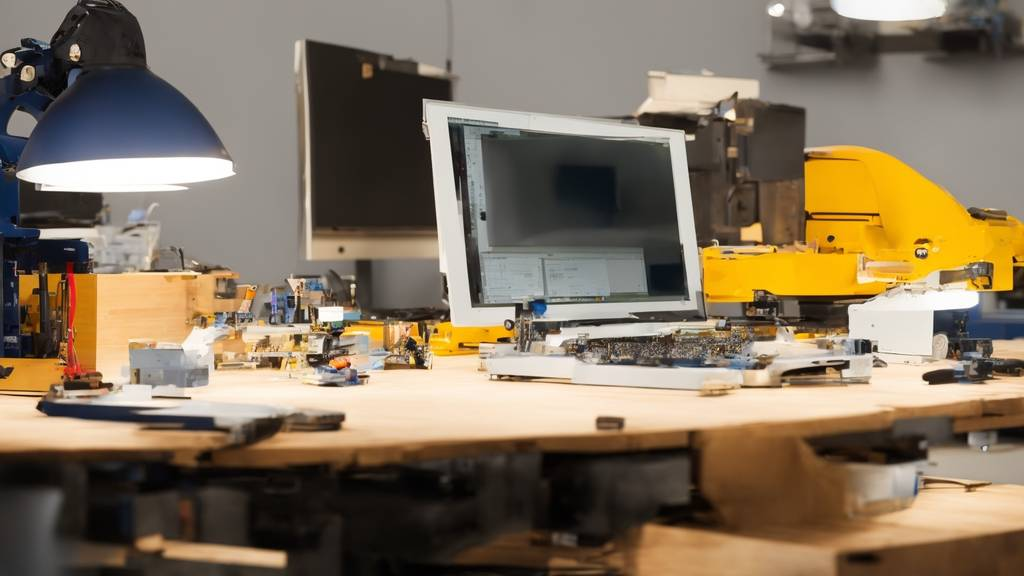
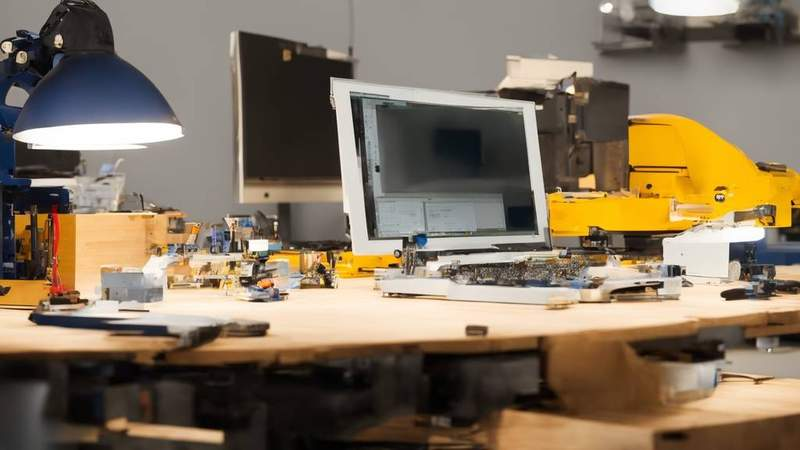
Split hero layout, optimize load time across all pages
Hero: Split into text-left + video-right grid instead of full-bleed
video background. Video plays once and holds. Stacks on mobile.

Performance:
- Logo: resized from 663x252 to 200x76 (90KB -> 22KB)
- Poster: recompressed (57KB -> 37KB)
- Dropped Inter 800 weight (only using 400/500/600/700)
- Added preconnect to fonts.gstatic.com across all pages
- Deferred chatbot.js and reviews.js loading
- Added lazy loading to all below-fold icon images
- Responsive breakpoints updated for split hero

diff --git a/index.html b/index.html
@@ -5,8 +5,9 @@
   <meta name="viewport" content="width=device-width, initial-scale=1.0">
   <meta name="description" content="Computer Solutions - Professional computer repair, IT support, and technology services. Fast, reliable, and affordable.">
   <title>Computer Solutions | Professional Computer Repair & IT Services</title>
-  <link rel="preconnect" href="https://fonts.googleapis.com">
-  <link href="https://fonts.googleapis.com/css2?family=Inter:wght@400;500;600;700;800&family=Poppins:wght@700&display=swap" rel="stylesheet">
+  <link rel="preconnect" href="https://fonts.googleapis.com" crossorigin>
+  <link rel="preconnect" href="https://fonts.gstatic.com" crossorigin>
+  <link href="https://fonts.googleapis.com/css2?family=Inter:wght@400;500;600;700&family=Poppins:wght@700&display=swap" rel="stylesheet">
   <link rel="stylesheet" href="css/styles.css">
 </head>
 <body>
@@ -35,21 +36,15 @@
   </header>
 
   <!-- Hero Section -->
-  <section class="hero">
-    <div class="hero-bg">
-      <video id="heroVideo" autoplay muted playsinline poster="images/hero-workbench.jpg">
-        <source src="images/hero-video.mp4" type="video/mp4">
-        <img src="images/hero-workbench.jpg" alt="Computer Solutions repair workshop">
-      </video>
-    </div>
+  <section class="hero hero-split">
     <div class="container">
-      <div class="hero-content">
+      <div class="hero-split-grid">
         <div class="hero-text">
           <h1>Expert Computer & <span>TV Repair</span> in Keystone Heights</h1>
           <p>Your complete source for PC, laptop, and LED/LCD/DLP television repair. We also sell new and refurbished computers. Reliable service with a personal touch.</p>
           <div class="hero-buttons">
             <a href="booking.html" class="btn btn-accent btn-lg">Book a Repair</a>
-            <a href="services.html" class="btn btn-outline btn-lg">Our Services</a>
+            <a href="services.html" class="btn btn-outline-dark btn-lg">Our Services</a>
           </div>
           <div class="hero-stats">
             <div class="hero-stat">
@@ -66,6 +61,11 @@
             </div>
           </div>
         </div>
+        <div class="hero-video-wrap">
+          <video id="heroVideo" autoplay muted playsinline poster="images/hero-workbench.jpg" preload="auto">
+            <source src="images/hero-video.mp4" type="video/mp4">
+          </video>
+        </div>
       </div>
     </div>
   </section>
@@ -80,32 +80,32 @@
       </div>
       <div class="features-grid">
         <div class="feature-card fade-in">
-          <div class="feature-icon"><img src="images/icons/pc-repair.jpg" alt="PC Repair"></div>
+          <div class="feature-icon"><img loading="lazy" src="images/icons/pc-repair.jpg" alt="PC Repair"></div>
           <h3>PC & Laptop Repair</h3>
           <p>Complete hardware and software repair for desktops and laptops. All major brands and models serviced.</p>
         </div>
         <div class="feature-card fade-in">
-          <div class="feature-icon"><img src="images/icons/tv-repair.jpg" alt="TV Repair"></div>
+          <div class="feature-icon"><img loading="lazy" src="images/icons/tv-repair.jpg" alt="TV Repair"></div>
           <h3>TV Repair</h3>
           <p>LED, LCD, and DLP television repair. We diagnose and fix display issues, power problems, and more.</p>
         </div>
         <div class="feature-card fade-in">
-          <div class="feature-icon"><img src="images/icons/virus.jpg" alt="Virus Removal"></div>
+          <div class="feature-icon"><img loading="lazy" src="images/icons/virus.jpg" alt="Virus Removal"></div>
           <h3>Virus & Malware Removal</h3>
           <p>Thorough virus and malware removal with a 90-day warranty. Get your system clean and protected.</p>
         </div>
         <div class="feature-card fade-in">
-          <div class="feature-icon"><img src="images/icons/data-recovery.jpg" alt="Data Recovery"></div>
+          <div class="feature-icon"><img loading="lazy" src="images/icons/data-recovery.jpg" alt="Data Recovery"></div>
           <h3>Data Recovery</h3>
           <p>Lost important files? We recover data from damaged, corrupted, or failing hard drives and SSDs.</p>
         </div>
         <div class="feature-card fade-in">
-          <div class="feature-icon"><img src="images/icons/sales.jpg" alt="Computer Sales"></div>
+          <div class="feature-icon"><img loading="lazy" src="images/icons/sales.jpg" alt="Computer Sales"></div>
           <h3>Computer Sales</h3>
           <p>New and refurbished laptops and desktops at competitive prices. Find the right computer for your needs.</p>
         </div>
         <div class="feature-card fade-in">
-          <div class="feature-icon"><img src="images/icons/business-it.jpg" alt="Business IT"></div>
+          <div class="feature-icon"><img loading="lazy" src="images/icons/business-it.jpg" alt="Business IT"></div>
           <h3>Business IT Support</h3>
           <p>Full software and hardware support for business computers. Consulting, setup, and ongoing maintenance.</p>
         </div>
@@ -123,28 +123,28 @@
       </div>
       <div class="why-grid">
         <div class="why-card fade-in">
-          <div class="why-icon"><img src="images/icons/sameday.jpg" alt="Same-Day"></div>
+          <div class="why-icon"><img loading="lazy" src="images/icons/sameday.jpg" alt="Same-Day"></div>
           <div>
             <h4>Same-Day Service</h4>
             <p>Most repairs completed within 24 hours. Emergency same-day service available for critical issues.</p>
           </div>
         </div>
         <div class="why-card fade-in">
-          <div class="why-icon"><img src="images/icons/pricing.jpg" alt="Transparent Pricing"></div>
+          <div class="why-icon"><img loading="lazy" src="images/icons/pricing.jpg" alt="Transparent Pricing"></div>
           <div>
             <h4>Transparent Pricing</h4>
             <p>No hidden fees or surprise charges. Get a free diagnostic and upfront quote before any work begins.</p>
           </div>
         </div>
         <div class="why-card fade-in">
-          <div class="why-icon"><img src="images/icons/certified.jpg" alt="Certified"></div>
+          <div class="why-icon"><img loading="lazy" src="images/icons/certified.jpg" alt="Certified"></div>
           <div>
             <h4>Certified Technicians</h4>
             <p>Our team holds industry certifications including CompTIA A+, Network+, and Microsoft certified.</p>
           </div>
         </div>
         <div class="why-card fade-in">
-          <div class="why-icon"><img src="images/icons/warranty.jpg" alt="90-Day Warranty"></div>
+          <div class="why-icon"><img loading="lazy" src="images/icons/warranty.jpg" alt="90-Day Warranty"></div>
           <div>
             <h4>90-Day Warranty</h4>
             <p>Every repair comes with a 90-day warranty. If the issue returns, we fix it free of charge.</p>
@@ -386,7 +386,7 @@
 
   <script src="js/config.js"></script>
   <script src="js/main.js"></script>
-  <script src="js/chatbot.js"></script>
-  <script src="js/reviews.js"></script>
+  <script defer src="js/chatbot.js"></script>
+  <script defer src="js/reviews.js"></script>
 </body>
 </html>

diff --git a/css/styles.css b/css/styles.css
@@ -372,48 +372,42 @@ p {
   border-radius: 2px;
 }
 
-/* --- Hero Section --- */
+/* --- Hero Section (Split Layout) --- */
 .hero {
   padding: 0;
   position: relative;
   overflow: hidden;
-  min-height: 60vh;
-  display: flex;
+}
+
+.hero-split {
+  background: var(--dark);
+  padding: 7rem 0 3.5rem;
+}
+
+.hero-split-grid {
+  display: grid;
+  grid-template-columns: 1fr 1fr;
+  gap: 3rem;
   align-items: center;
 }
 
-.hero-bg {
-  position: absolute;
-  inset: 0;
-  z-index: 0;
+.hero-video-wrap {
+  border-radius: var(--radius-xl);
+  overflow: hidden;
+  box-shadow: 0 16px 48px rgba(0, 0, 0, 0.3);
+  aspect-ratio: 16/9;
 }
 
-.hero-bg img,
-.hero-bg video {
+.hero-video-wrap video {
   width: 100%;
   height: 100%;
   object-fit: cover;
-}
-
-.hero-bg::after {
-  content: '';
-  position: absolute;
-  inset: 0;
-  background: linear-gradient(135deg, rgba(13, 21, 32, 0.92) 0%, rgba(27, 42, 74, 0.85) 50%, rgba(21, 34, 56, 0.8) 100%);
-}
-
-.hero-content {
-  position: relative;
-  z-index: 1;
-  display: grid;
-  grid-template-columns: 1fr;
-  max-width: 720px;
-  padding: 7rem 0 3.5rem;
+  display: block;
 }
 
 .hero-text h1 {
   color: var(--white);
-  font-size: 3rem;
+  font-size: 2.75rem;
   margin-bottom: 1.25rem;
   line-height: 1.1;
 }
@@ -426,10 +420,10 @@ p {
 }
 
 .hero-text p {
-  color: rgba(255, 255, 255, 0.8);
-  font-size: 1.1rem;
+  color: var(--gray-400);
+  font-size: 1.05rem;
   margin-bottom: 2rem;
-  max-width: 540px;
+  max-width: 500px;
   line-height: 1.7;
 }
 
@@ -448,13 +442,10 @@ p {
 }
 
 .hero-stat {
-  background: var(--glass-bg);
-  backdrop-filter: blur(12px);
-  -webkit-backdrop-filter: blur(12px);
-  border: 1px solid var(--glass-border);
+  background: rgba(255, 255, 255, 0.05);
+  border: 1px solid rgba(255, 255, 255, 0.08);
   border-radius: var(--radius-lg);
-  padding: 1.25rem 1.75rem;
-  min-width: 140px;
+  padding: 1rem 1.25rem;
 }
 
 .hero-stat h3 {
@@ -462,13 +453,13 @@ p {
   -webkit-background-clip: text;
   -webkit-text-fill-color: transparent;
   background-clip: text;
-  font-size: 1.75rem;
-  margin-bottom: 0.15rem;
+  font-size: 1.5rem;
+  margin-bottom: 0.1rem;
 }
 
 .hero-stat p {
-  color: rgba(255, 255, 255, 0.6);
-  font-size: 0.85rem;
+  color: rgba(255, 255, 255, 0.5);
+  font-size: 0.8rem;
   margin: 0;
 }
 
@@ -1393,17 +1384,22 @@ p {
   h1 { font-size: 2.5rem; }
   h2 { font-size: 2rem; }
 
-  .hero { min-height: auto; }
+  .hero-split { padding: 6rem 0 2.5rem; }
 
-  .hero-content {
+  .hero-split-grid {
+    grid-template-columns: 1fr;
     text-align: center;
-    padding: 6.5rem 0 3rem;
   }
 
   .hero-text h1 { font-size: 2.25rem; }
   .hero-text p { margin-left: auto; margin-right: auto; }
   .hero-buttons { justify-content: center; }
   .hero-stats { justify-content: center; }
+
+  .hero-video-wrap {
+    max-width: 480px;
+    margin: 0 auto;
+  }
 
   .nav-links {
     display: none;
@@ -1460,7 +1456,7 @@ p {
 }
 
 @media (max-width: 480px) {
-  .hero-content { padding: 6rem 0 2.5rem; }
+  .hero-split { padding: 5.5rem 0 2rem; }
   .hero-text h1 { font-size: 2rem; }
 
   .hero-stats {

diff --git a/services.html b/services.html
@@ -5,8 +5,9 @@
   <meta name="viewport" content="width=device-width, initial-scale=1.0">
   <meta name="description" content="Computer Solutions services - hardware repair, software support, networking, cybersecurity, cloud services, and business IT solutions.">
   <title>Services | Computer Solutions</title>
-  <link rel="preconnect" href="https://fonts.googleapis.com">
-  <link href="https://fonts.googleapis.com/css2?family=Inter:wght@400;500;600;700;800&family=Poppins:wght@700&display=swap" rel="stylesheet">
+  <link rel="preconnect" href="https://fonts.googleapis.com" crossorigin>
+  <link rel="preconnect" href="https://fonts.gstatic.com" crossorigin>
+  <link href="https://fonts.googleapis.com/css2?family=Inter:wght@400;500;600;700&family=Poppins:wght@700&display=swap" rel="stylesheet">
   <link rel="stylesheet" href="css/styles.css">
 </head>
 <body>

diff --git a/pricing.html b/pricing.html
@@ -5,8 +5,9 @@
   <meta name="viewport" content="width=device-width, initial-scale=1.0">
   <meta name="description" content="Computer Solutions pricing - transparent, affordable rates for computer repair and IT services. Free diagnostics included.">
   <title>Pricing | Computer Solutions</title>
-  <link rel="preconnect" href="https://fonts.googleapis.com">
-  <link href="https://fonts.googleapis.com/css2?family=Inter:wght@400;500;600;700;800&family=Poppins:wght@700&display=swap" rel="stylesheet">
+  <link rel="preconnect" href="https://fonts.googleapis.com" crossorigin>
+  <link rel="preconnect" href="https://fonts.gstatic.com" crossorigin>
+  <link href="https://fonts.googleapis.com/css2?family=Inter:wght@400;500;600;700&family=Poppins:wght@700&display=swap" rel="stylesheet">
   <link rel="stylesheet" href="css/styles.css">
 </head>
 <body>

diff --git a/booking.html b/booking.html
@@ -5,8 +5,9 @@
   <meta name="viewport" content="width=device-width, initial-scale=1.0">
   <meta name="description" content="Book a computer repair appointment online with Computer Solutions. Easy scheduling, free diagnostic included.">
   <title>Book an Appointment | Computer Solutions</title>
-  <link rel="preconnect" href="https://fonts.googleapis.com">
-  <link href="https://fonts.googleapis.com/css2?family=Inter:wght@400;500;600;700;800&family=Poppins:wght@700&display=swap" rel="stylesheet">
+  <link rel="preconnect" href="https://fonts.googleapis.com" crossorigin>
+  <link rel="preconnect" href="https://fonts.gstatic.com" crossorigin>
+  <link href="https://fonts.googleapis.com/css2?family=Inter:wght@400;500;600;700&family=Poppins:wght@700&display=swap" rel="stylesheet">
   <link rel="stylesheet" href="css/styles.css">
 </head>
 <body>

diff --git a/about.html b/about.html
@@ -5,8 +5,9 @@
   <meta name="viewport" content="width=device-width, initial-scale=1.0">
   <meta name="description" content="Learn about Computer Solutions - our team, mission, and 15+ years of computer repair and IT service experience.">
   <title>About Us | Computer Solutions</title>
-  <link rel="preconnect" href="https://fonts.googleapis.com">
-  <link href="https://fonts.googleapis.com/css2?family=Inter:wght@400;500;600;700;800&family=Poppins:wght@700&display=swap" rel="stylesheet">
+  <link rel="preconnect" href="https://fonts.googleapis.com" crossorigin>
+  <link rel="preconnect" href="https://fonts.gstatic.com" crossorigin>
+  <link href="https://fonts.googleapis.com/css2?family=Inter:wght@400;500;600;700&family=Poppins:wght@700&display=swap" rel="stylesheet">
   <link rel="stylesheet" href="css/styles.css">
 </head>
 <body>

diff --git a/testimonials.html b/testimonials.html
@@ -5,8 +5,9 @@
   <meta name="viewport" content="width=device-width, initial-scale=1.0">
   <meta name="description" content="Read customer reviews and testimonials about Computer Solutions' computer repair and IT services.">
   <title>Testimonials | Computer Solutions</title>
-  <link rel="preconnect" href="https://fonts.googleapis.com">
-  <link href="https://fonts.googleapis.com/css2?family=Inter:wght@400;500;600;700;800&family=Poppins:wght@700&display=swap" rel="stylesheet">
+  <link rel="preconnect" href="https://fonts.googleapis.com" crossorigin>
+  <link rel="preconnect" href="https://fonts.gstatic.com" crossorigin>
+  <link href="https://fonts.googleapis.com/css2?family=Inter:wght@400;500;600;700&family=Poppins:wght@700&display=swap" rel="stylesheet">
   <link rel="stylesheet" href="css/styles.css">
 </head>
 <body>

diff --git a/contact.html b/contact.html
@@ -5,8 +5,9 @@
   <meta name="viewport" content="width=device-width, initial-scale=1.0">
   <meta name="description" content="Contact Computer Solutions for computer repair and IT services. Call, email, or visit us today.">
   <title>Contact Us | Computer Solutions</title>
-  <link rel="preconnect" href="https://fonts.googleapis.com">
-  <link href="https://fonts.googleapis.com/css2?family=Inter:wght@400;500;600;700;800&family=Poppins:wght@700&display=swap" rel="stylesheet">
+  <link rel="preconnect" href="https://fonts.googleapis.com" crossorigin>
+  <link rel="preconnect" href="https://fonts.gstatic.com" crossorigin>
+  <link href="https://fonts.googleapis.com/css2?family=Inter:wght@400;500;600;700&family=Poppins:wght@700&display=swap" rel="stylesheet">
   <link rel="stylesheet" href="css/styles.css">
 </head>
 <body>
